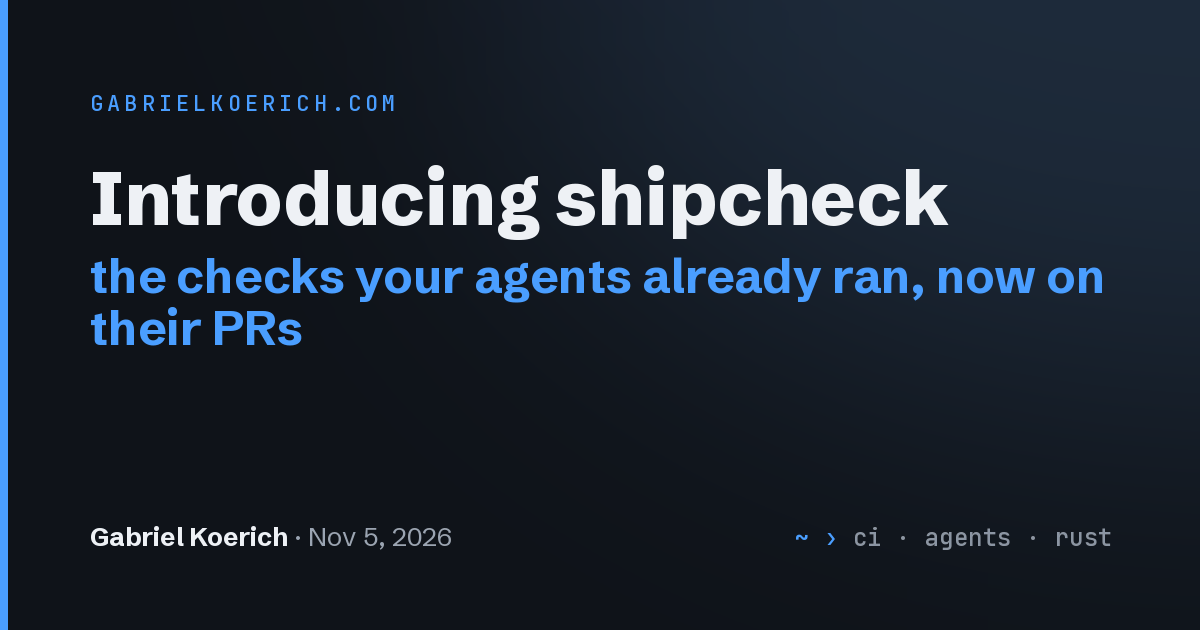
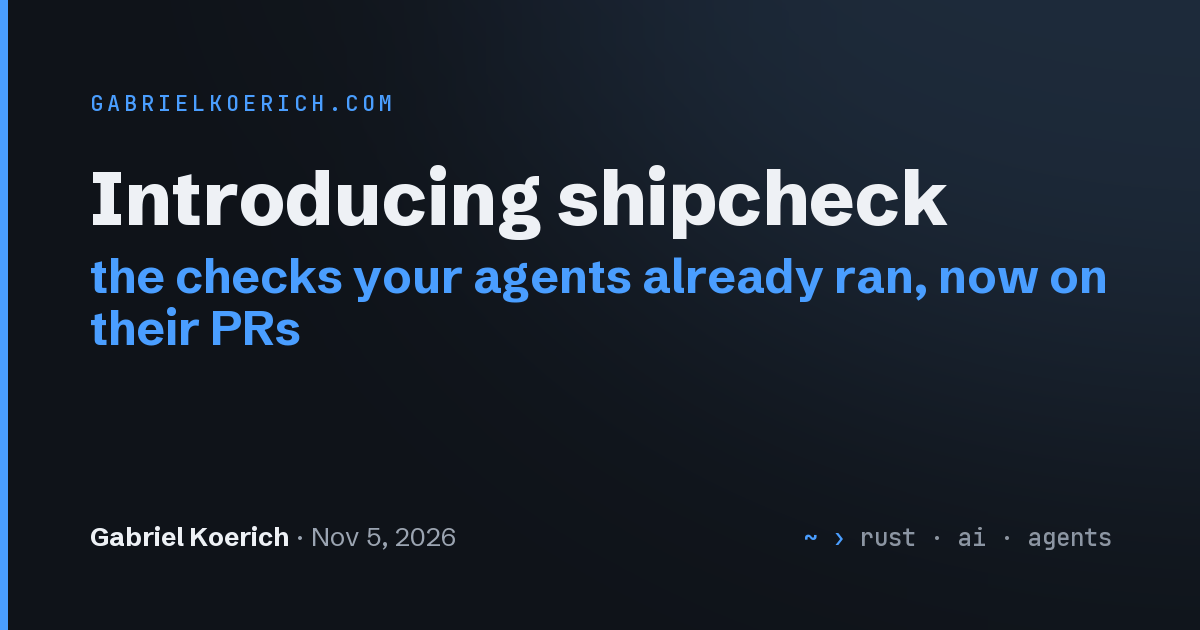
Add subscribe link

diff --git a/templates/index.html b/templates/index.html
@@ -28,6 +28,7 @@
 {% set_global pages = pages | sort(attribute="date") | reverse %}
 {% endif %}
 {% if pages | length > 0 %}
+{% include "partials/subscribe.html" %}
 <div class="section-heading-inline">
     <h2>{{ trans(key="latest_posts", lang=lang) }}</h2>
     <a class="section-heading-link" href="{{ i18n::url(path='posts/_index.md', lang=lang) }}">{{ trans(key="all_posts", lang=lang) }}</a>

diff --git a/content/posts/2026-11-05-introducing-shipcheck.md b/content/posts/2026-11-05-introducing-shipcheck.md
@@ -4,7 +4,7 @@ date = 2026-11-05
 slug = "shipcheck"
 description = "shipcheck turns the tests your agents already ran into the PR's required checks. How it works, why agents can't cheat, and two weeks of real numbers."
 [taxonomies]
-tags = ["ci", "agents", "rust", "shipcheck", "security"]
+tags = ["rust", "ai", "agents", "ci", "shipcheck"]
 +++
 
 I run coding agents with [orch](https://github.com/gabrielkoerich/orch). An agent finishes a change in a few minutes, and then its PR waits while GitHub Actions runs the same tests the agent just ran. Every push uses Actions minutes, and every month, somewhere between the 10th and the 15th, I run out of free ones and start paying for each minute.
